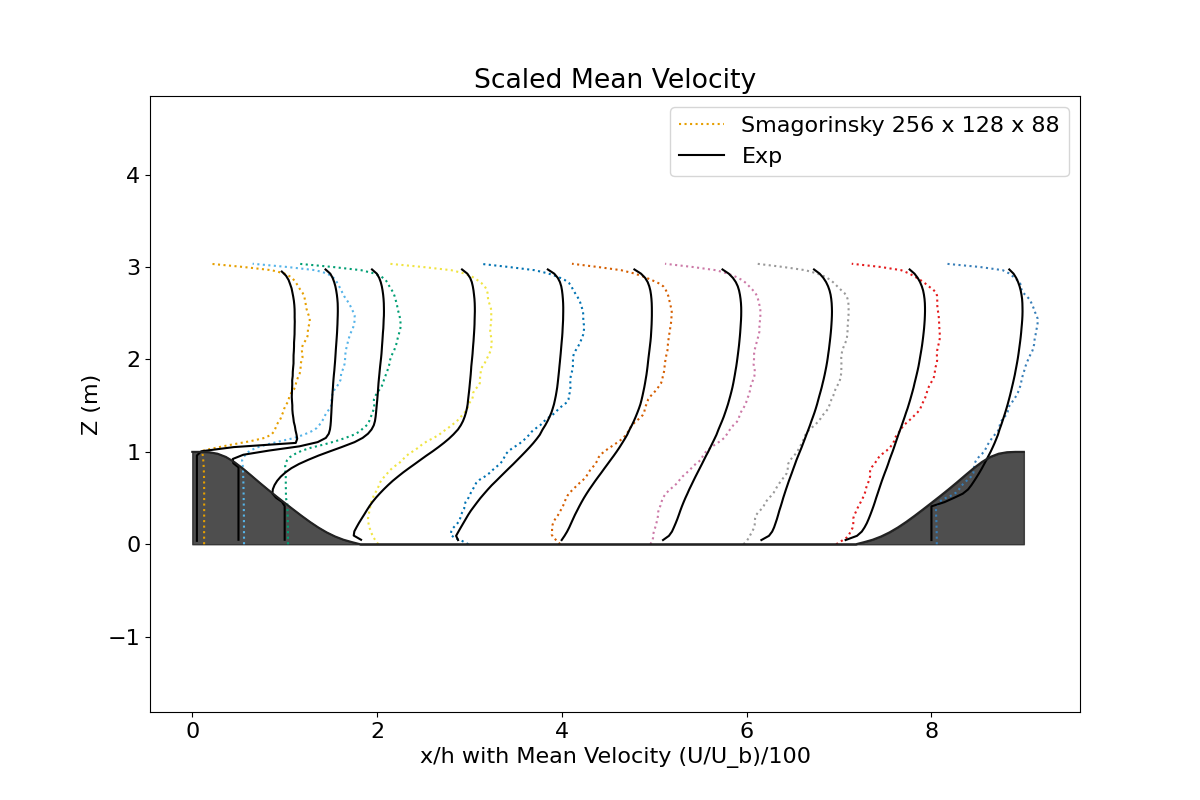
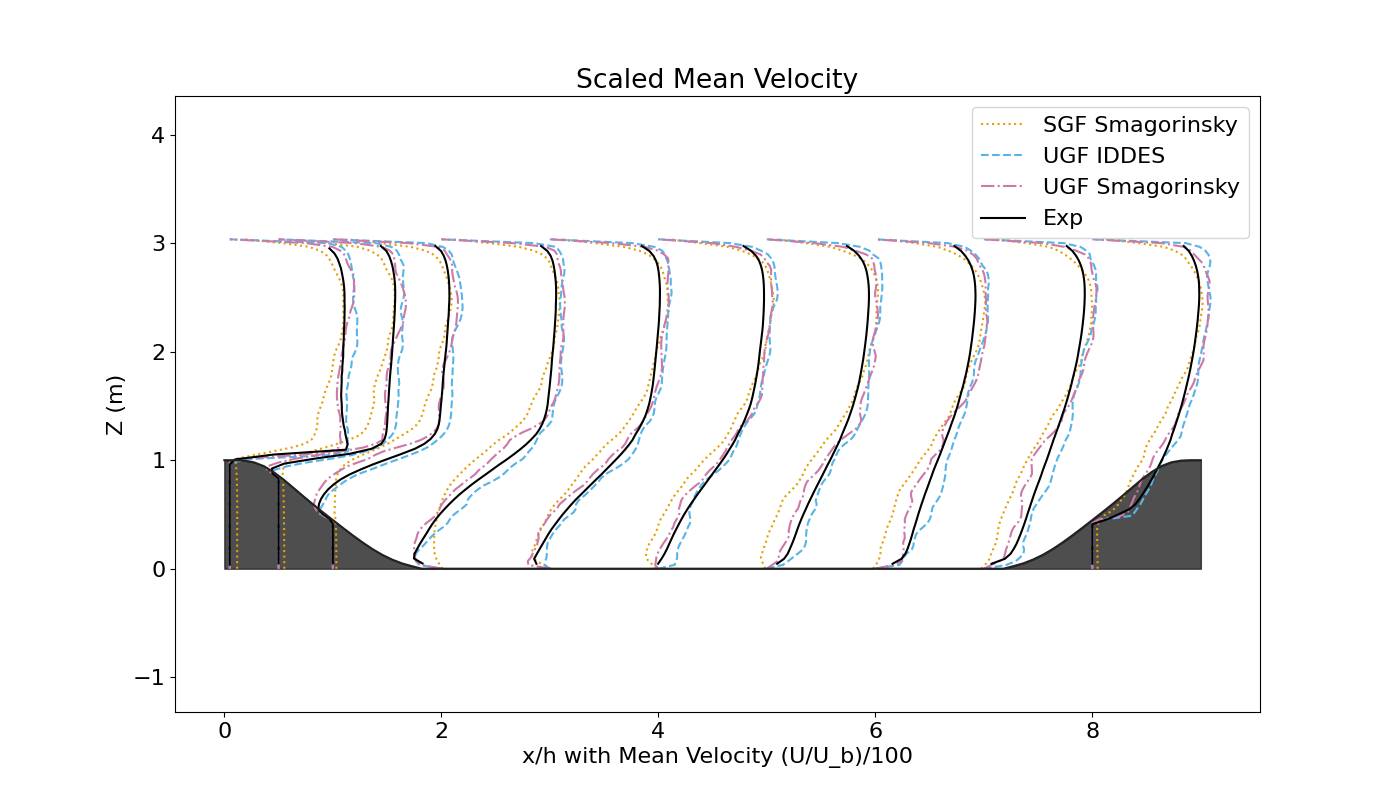
Post-proc updates

diff --git a/tools/periodic_hill/periodichill_ufr.py b/tools/periodic_hill/periodichill_ufr.py
@@ -14,10 +14,13 @@ def plot_probes(data,name):
     vel_y = data['probe1']['velocityy']
     vel_z = data['probe1']['velocityz']
     nprobes = data['probe1'].dimensions['num_points'].size
+    zcoords = data['probe1'].variables['coordinates']
 
     fig, ax = plt.subplots(3, 1, figsize=(12, 8), sharex="col")
 
     for i in range(nprobes):
+        print("Probe z=",zcoords[i][2],"Mean X Velocity:",np.mean(vel_x[:,i])) 
+
         ax[0].plot(time,vel_x[:,i], label="Point "+str(i))
         ax[0].set_title("Velocity Timeseries")
         ax[0].set_ylabel("X Velocity")
@@ -36,15 +39,31 @@ def plot_probes(data,name):
     plt.tight_layout()
     plt.savefig('probe_sampler_timeseries.png')
 
+def load_ugf_planes(sample_paths):
+    # Load UGF plane data from multiple files and combine into a single dataset
+    combined_data = []
+    for path in sample_paths:
+        data = pd.read_csv(path, sep=r'\s+', skipinitialspace=True,skiprows=1)
+        combined_data.append(data)
+
+    return combined_data
+
 def load_cases(cases):
     planedata = {}
     pointdata = {}
     
-
     for c in cases:
-        postproc_dir = os.path.join(c['path'],'post_processing')
-        planedata[c['name']] = nc.Dataset(os.path.join(postproc_dir, c['plane_sample_file']))
-        pointdata[c['name']] = nc.Dataset(os.path.join(postproc_dir, c['point_sample_file']))
+        if c['type'] == 'sgf':
+            postproc_dir = os.path.join(c['path'],'post_processing')
+            planedata[c['name']] = nc.Dataset(os.path.join(postproc_dir, c['plane_sample_file'][0]))
+            pointdata[c['name']] = nc.Dataset(os.path.join(postproc_dir, c['point_sample_file']))
+        else:
+            postproc_dir = os.path.join(c['path'])
+            popt = c['plane_options']
+            plane_i = range(popt[0],popt[1]+popt[2],popt[2])
+            sample_paths = [os.path.join(postproc_dir, c['plane_template'].replace('{i}',str(f))) for f in plane_i]
+            planedata[c['name']] = load_ugf_planes(sample_paths) # List of flat files for each time output
+            pointdata[c['name']] = []
 
     return planedata,pointdata
 
@@ -65,7 +84,7 @@ def load_exp(exp):
 
     return alldata,profile
 
-def make_means(planedata,expdata,profile,name,opt,label):
+def make_means_sgf(planedata,name,opt,label):
 
     vel_x = planedata['plane1']['velocityx']
     vel_y = planedata['plane1']['velocityy']
@@ -101,6 +120,97 @@ def make_means(planedata,expdata,profile,name,opt,label):
     for step in range(ms,me):
         v = vel_x[step,:].reshape((nwidth,nlength,noffsets),order='F')
         thismean = thismean + v/nmean
+
+    # Calculate spanwise
+    hmean = []
+    for o in range(len(offsets)):
+        hmean.append(thismean[:,:,o].reshape(nwidth,nlength).mean(axis=0))
+
+    centerslice = []
+    for o in range(len(offsets)):
+        centerslice.append(thismean[:,:,o].reshape(nwidth,nlength)[(nwidth // 2),:])
+
+    maxumid = np.max(hmean[5][:])
+
+    return {'t_mean': thismean,
+            'h_mean': hmean,
+            'center_slice':centerslice,
+            'Zmesh': Z,
+            'Ymesh': Y,
+            'zvals': zvals,
+            'ns':nsteps,
+            'nw':nwidth,
+            'nl':nlength,
+            'noffsets':noffsets,
+            'nmean':nmean,
+            'offsets':offsets,
+            'vel_x': vel_x,
+            'vel_y': vel_y,
+            'vel_z': vel_z,
+            'opt':opt,
+            'label': label,
+            'ummid': maxumid
+            }
+
+def zero_under_hill(hilldata,meandata):
+
+    # Zero out the mean data under the hill geometry
+    hill_z = hilldata['z']
+    hill_x = hilldata['x']
+
+    for i in range(len(meandata)):
+        x_val = meandata.iloc[i]['coordinates[0]']
+        z_val = meandata.iloc[i]['coordinates[2]']
+
+        # Find the corresponding hill height at this x position
+        hill_height = np.interp(x_val, hill_x, hill_z)
+
+        if z_val < hill_height:
+            meandata.at[i, 'velocity_probe[0]'] = 0.0
+            meandata.at[i, 'velocity_probe[1]'] = 0.0
+            meandata.at[i, 'velocity_probe[2]'] = 0.0
+
+    return meandata
+
+def make_means_ugf(planedata,name,opt,label):
+
+    time_mean = sum(planedata) / len(planedata)
+
+    hilldata = pd.read_csv('periodic_hill_ufr.csv')
+    time_mean = zero_under_hill(hilldata,time_mean)
+
+    # time_mean indices
+    # noffsets is slowest changing, then Index J, then Index I is fastest changing
+    # j=length, i=width, o=offsets
+
+    nsteps = len(planedata)
+    nwidth = np.unique(planedata[0]['Index_i']).size
+    nlength = np.unique(planedata[0]['Index_j']).size
+    noffsets = np.unique(planedata[0]['#Plane_Number']).size
+    ntp = nwidth*nlength
+    offsets = np.unique(planedata[0]['coordinates[0]'])
+    nmean = len(time_mean)
+
+    vel_x = []
+    vel_y = []
+    vel_z = []
+
+    for data in planedata:
+        vel_x.append(np.array(data['velocity_probe[0]']))
+        vel_y.append(np.array(data['velocity_probe[1]']))
+        vel_z.append(np.array(data['velocity_probe[2]']))
+
+    ms = opt[0]
+    me = opt[1] #nsteps
+
+    yvals = np.unique(planedata[0]['coordinates[1]'])
+    zvals = np.unique(planedata[0]['coordinates[2]'])
+    Z,Y = np.meshgrid(zvals,yvals)
+
+    # Calculate temporal mean
+    thismean = np.array(time_mean['velocity_probe[0]']).reshape(noffsets,nlength,nwidth, order='C').transpose(2,1,0) # Reshape to (noffsets,nwidth,nlength)
+
+    #print(np.array(thismean))
 
     # Calculate spanwise
     hmean = []
@@ -169,11 +279,11 @@ def plot_planes_all(m,expdata,profile):
     cp = [
         "#E69F00",  # Orange
         "#56B4E9",  # Sky Blue
+        "#CC79A7",  # Reddish Purple
         "#009E73",  # Bluish Green
         "#F0E442",  # Yellow
         "#0072B2",  # Blue
         "#D55E00",  # Vermillion
-        "#CC79A7",  # Reddish Purple
         "#999999",  # Gray
         "#E41A1C",  # Red (colorblind safe variant)
         "#377EB8",  # Blue variant
@@ -183,14 +293,15 @@ def plot_planes_all(m,expdata,profile):
     ptype = ['h_mean','center_slice']
     
     for pt in ptype:
-        fig, ax = plt.subplots(1, 1, figsize=(12, 8), sharex="col")
+        fig, ax = plt.subplots(1, 1, figsize=(14, 8), sharex="col")
         scale = 1.0
         
         for l,name in enumerate(m):
-            print('Max U:',m[name]['ummid'])
-            u_b = m[name]['ummid']*0.85
+            print(name,m[name]['ummid'])
+            u_b = m[name]['ummid']/1.0593
+            #u_b = m[name]['opt'][4]
             for o in range(m[name]['noffsets']):
-                ax.plot(m[name]['offsets'][o]/h+m[name][pt][o]/scale/u_b,m[name]['zvals']/h,label=m[name]['label'],linestyle=uls[l+1],color=cp[o])
+                ax.plot(m[name]['offsets'][o]/h+m[name][pt][o]/scale/u_b,m[name]['zvals']/h,label=m[name]['label'],linestyle=uls[l+1],color=cp[l])
 
         # Variables: y/h; u/u_b; v/u_b; u'u'/u_b^2; v'v'/u_b^2; u'v'/u_b^2
         for i,e in enumerate(expdata):
@@ -263,8 +374,17 @@ def main():
         if c['probe_plots']:
             plot_probes(pointdata[c['name']],c['name'])
         if c['plane_processing']:
-            output[c['name']] = make_means(planedata[c['name']],expdata,profile,c['name'],c['opt'],c['label'])
+
+            if c['type'] == 'sgf':
+                output[c['name']] = make_means_sgf(planedata[c['name']],c['name'],c['opt'],c['label'])
+            else:
+                output[c['name']] = make_means_ugf(planedata[c['name']],c['name'],c['opt'],c['label'])
+
             print("Plane output steps:",output[c['name']]['ns'])
+
+            if c['type'] == 'ugf':
+                force_data = pd.read_csv(c['path'] + '/forcing.dat', sep=r'\s+', skipinitialspace=True)
+                print("Mean Forcing:",force_data.iloc[100:]['Fx'].mean()/1000.0)
     
     plot_planes_all(output,expdata,profile)
 

diff --git a/test_bed/periodichill_ufr_smag_final/create_bump_terrain.py b/test_bed/periodichill_ufr_smag_final/create_bump_terrain.py
@@ -98,10 +98,17 @@ def main():
 
     outdf = pd.DataFrame({
         'x':xnew*hm,
+        'y':xnew*0,
         'z':znew*hm
     })
 
     outdf.to_csv('periodic_hill.csv', index=False)
+
+    # Write to .curve format
+    with open('periodic_hill.curve', 'w') as f:
+        f.write(f"{len(outdf.x)}\n")
+        for x, y, z in zip(outdf.x, outdf.y, outdf.z):
+            f.write(f"{x} {y} {z}\n")
 
     # Output kynema file
     zall = np.array([])
